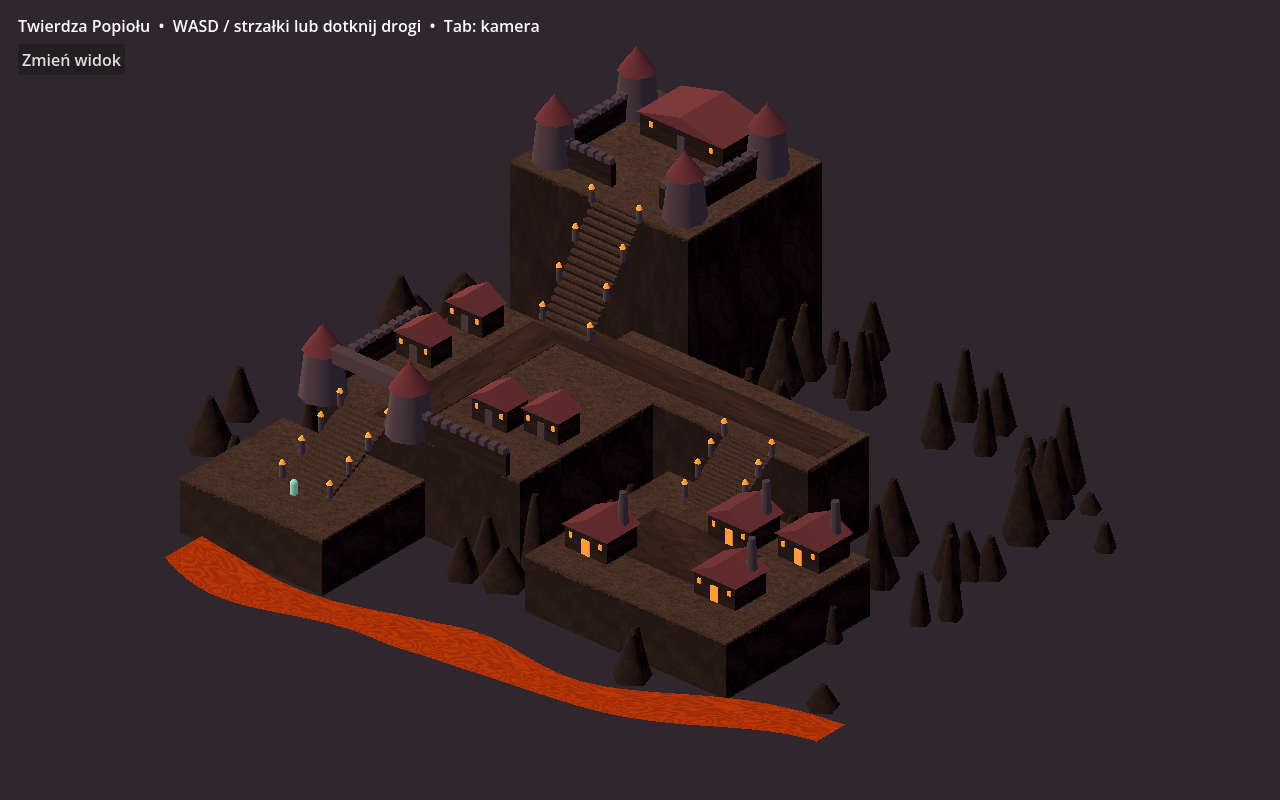
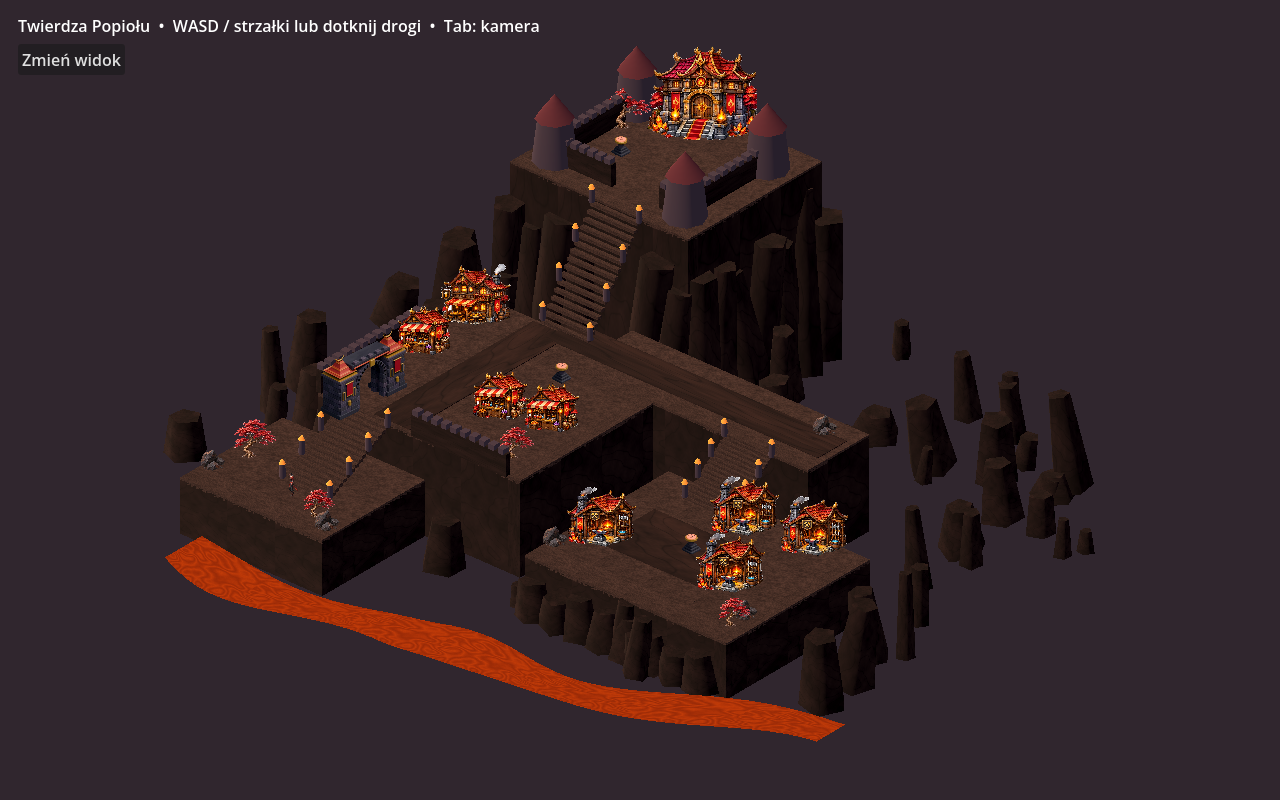
Dopracuj oprawę Pyry i dodaj zrzuty z uruchomionej gry

diff --git a/ports/godot-ash-fortress/README.md b/ports/godot-ash-fortress/README.md
@@ -24,3 +24,7 @@ Godot 4.6.3 zaimportował projekt i zaliczył test trasy. Materiały powstały n
 - [Atlas wysokości](qa/atlas-preview.png)
 - [Próby materiałów](qa/podglad-materialow.jpg)
 - [Manifest topografii](qa/manifest-topografii.json)
+
+### Zrzut z kamery gracza
+
+W Godot 4.6.3 uruchomiono scenę z grafikami istniejących budynków i postaci z portu Pyry, bramą i paleniskami z prób RunPod oraz nieregularnymi formacjami bazaltowymi. Trasa znów przeszła test. [Zrzut z gry](qa/zrzut-gracza-pyra.png) przedstawia postać przy targu. [Widok całej twierdzy](qa/podglad-pyry.png) pokazuje układ tarasów. Klify i wieże są wciąż w trakcie dopracowywania.
